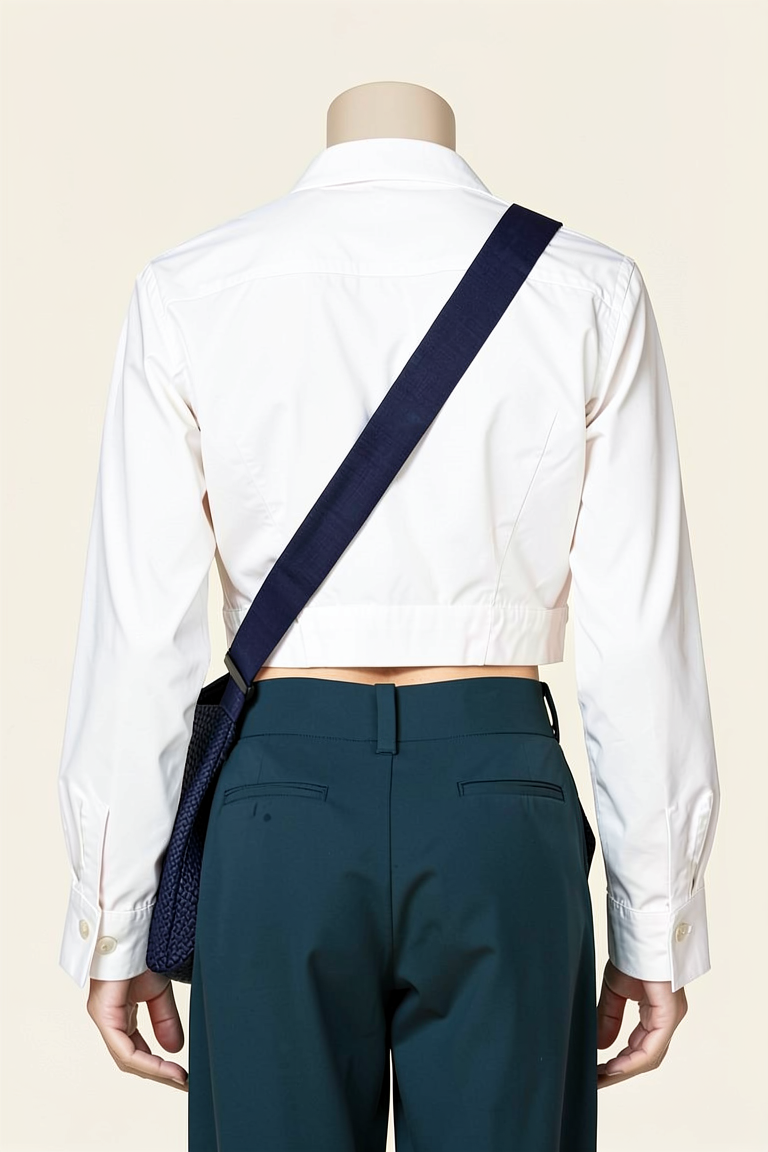
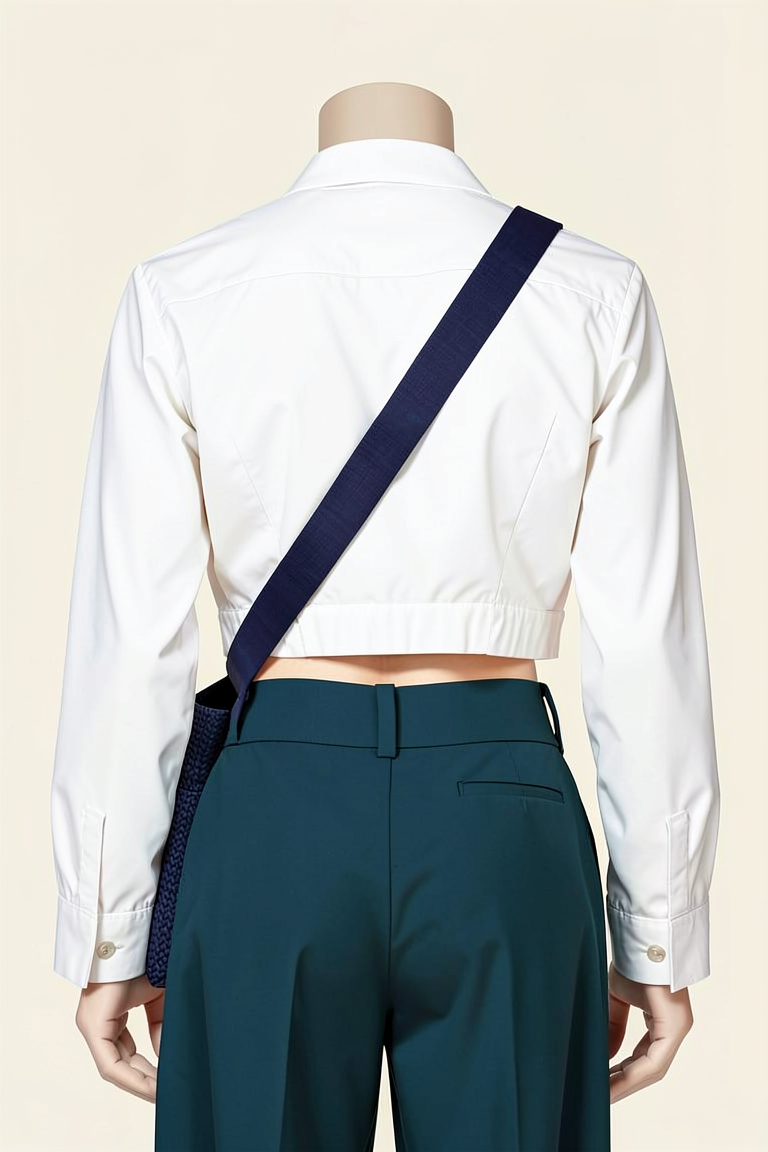
feat(p7-5-2): strengthen prop reference contracts

diff --git a/docs/assets/part-07/chapter-05/p7_5_2_generate_no_style_prop_masters.py b/docs/assets/part-07/chapter-05/p7_5_2_generate_no_style_prop_masters.py
@@ -18,6 +18,8 @@ MODEL_ID = "black-forest-labs/FLUX.2-klein-4B"
 PROP_SEED = 62294
 DEFAULT_REPORT = ROOT / "p7-5-2-prop-generation-candidate-review.json"
 CROP_TOP_WAIST_REFERENCE = ROOT / "p7-5-2-outfit-crop-top-waist-reference.png"
+CROSSBODY_BAG_REFERENCE = ROOT / "p7-5-2-prop-reference-crossbody-bag.png"
+TROUSERS_REFERENCE = ROOT / "p7-5-2-prop-reference-trousers.png"
 
 JACKET_COMMON_CONTRACT = (
     "One isolated very short white cropped utility jacket in a clean {view} product view "
@@ -66,20 +68,22 @@ REAR_JACKET_MIDRIFF_CONTRACT = (
 COMPLETE_OUTFIT_FRONT_HIP_CONTRACT = (
     "Front apparel-and-bag wearing reference from shoulders through hips on a neutral headless torso, plain "
     "off-white background. Show a very short white cropped utility jacket open over a charcoal-gray micro-crop "
-    "crew-neck top, deep teal-blue high-waisted wide-leg trousers, and a compact deep-navy woven-canvas crossbody "
-    "bag. The top ends at the upper abdomen, sixteen centimeters above the navel-height trouser waistband, leaving "
+    "crew-neck top, deep teal-blue wide-leg trousers with a clearly high waist: the full waistband sits at the navel, "
+    "well above the hips, and stays visible, plus a compact deep-navy woven-canvas crossbody bag. The top ends at "
+    "the upper abdomen, sixteen centimeters above the navel-height trouser waistband, leaving "
     "a clear bare-skin midriff band. Hang the bag side-on beside the wearer's outer left trouser seam (viewer right), "
     "with its top aligned to the waistband. Show one continuous taut strap from the outer wearer's-right shoulder "
-    "(viewer left), diagonally across the chest, into the bag's upper inner attachment. Keep distinct garment layers "
-    "and correct overlap. Clean "
+    "(viewer left), diagonally across the chest on top of the jacket exterior, into the bag's upper inner attachment; "
+    "never route the strap beneath, behind, or through the jacket. Keep distinct garment layers and correct overlap. Clean "
     "product illustration. No head, hands, legs, text, logo, hanger, or other object."
 )
 
 COMPLETE_OUTFIT_REAR_HIP_CONTRACT = (
     "Rear apparel-and-strap wearing reference from shoulders through hips on a neutral headless torso, plain off-white "
     "background. Show a very short white cropped utility jacket with long cuffed sleeves reaching the wrists, deep "
-    "teal-blue high-waisted wide-leg trousers, and one deep-navy canvas crossbody strap. Keep a plain white jacket "
-    "back panel and a bare-skin midriff band below its short hem, with no inner shirt visible. Show one continuous taut "
+    "teal-blue wide-leg trousers with a clearly high waist: the full waistband sits at the navel, well above the hips, "
+    "and stays visible, plus one deep-navy canvas crossbody strap. Keep a plain white jacket back panel and a bare-skin "
+    "midriff band below its short hem, with no inner shirt visible. Show one continuous taut "
     "deep-navy canvas strap from the outer wearer's-right shoulder (viewer right), diagonally across the jacket back, "
     "exiting beyond the left waistband. At the outer left hip, show only a small deep-navy woven-fabric bag corner, "
     "mostly hidden behind the torso. "
@@ -139,7 +143,11 @@ PROPS = {
         "seed": PROP_SEED,
         "output": "p7-5-2-no-style-prop-complete-outfit-front-hip-candidate.png",
         "size": (768, 1152),
-        "references": (CROP_TOP_WAIST_REFERENCE,),
+        "references": (
+            CROP_TOP_WAIST_REFERENCE,
+            CROSSBODY_BAG_REFERENCE,
+            TROUSERS_REFERENCE,
+        ),
         "prompt": (
             f"{COMPLETE_OUTFIT_FRONT_HIP_CONTRACT} Use the supplied crop-top-to-waistband reference as the authoritative "
             "gray crop-top length contract. Keep its high hem and exposed midriff band; do not lengthen it to the trouser "

diff --git a/docs/assets/part-07/chapter-05/p7_5_2_generate_fullbody_turnaround_references.py b/docs/assets/part-07/chapter-05/p7_5_2_generate_fullbody_turnaround_references.py
@@ -18,13 +18,17 @@ ROOT = Path(__file__).resolve().parent
 MODEL_ID = "black-forest-labs/FLUX.2-klein-4B"
 BASE_SEED = 62294
 TIMESTAMP_FORMAT = "%Y%m%dT%H%M%S%f%z"
-FACE_TURNAROUND = ROOT / "p7-5-2-face-turnaround-reference.png"
+FACE_IDENTITY_BY_VIEW = {
+    "front": ROOT / "p7-5-2-face-turnaround-codeformer-front-2x.png",
+    "front_quarter": ROOT / "p7-5-2-face-turnaround-codeformer-front-quarter-2x.png",
+    "profile": ROOT / "p7-5-2-face-turnaround-codeformer-profile-2x.png",
+    "rear": ROOT / "p7-5-2-face-turnaround-codeformer-rear-2x.png",
+}
 OUTFIT_REFERENCES = [
     ROOT / "p7-5-2-outfit-crop-top-waist-reference.png",
     ROOT / "p7-5-2-prop-reference-trousers.png",
     ROOT / "p7-5-2-prop-reference-shoes.png",
 ]
-REFERENCES = [FACE_TURNAROUND, *OUTFIT_REFERENCES]
 IMAGE_WIDTH = 768
 IMAGE_HEIGHT = 1152
 VIEW_RULES = {
@@ -40,8 +44,11 @@ VIEW_RULES = {
     ),
     "rear": "rear view, facing away from the camera",
 }
+FACE_IDENTITY_HAIR_DESCRIPTION = "deep petrol-teal, extremely voluminous jaw-length bob with medium-density hair"
+FACE_IDENTITY_EYE_DESCRIPTION = "chestnut-brown and orange-amber irises"
 APPEARANCE_RULE = (
-    "Use the face turnaround sheet for the same face, gaze, nose, and hair in every visible view. "
+    "Use the supplied direction-matched 2x face identity reference for the same face, gaze, nose, hair, and eyes: "
+    f"{FACE_IDENTITY_HAIR_DESCRIPTION}; {FACE_IDENTITY_EYE_DESCRIPTION}. "
     "Keep the charcoal-gray micro-crop crew-neck top, bare-midriff gap, deep teal-blue wide-leg trousers, "
     "and white lace-up low-top sneakers from the outfit references."
 )
@@ -82,7 +89,11 @@ def main() -> None:
         raise ValueError("seed-count must be at least 1")
     if args.seed_step == 0:
         raise ValueError("seed-step must not be zero")
-    if missing := [path.name for path in REFERENCES if not path.is_file()]:
+    reference_paths = [
+        *(FACE_IDENTITY_BY_VIEW[view] for view in args.views),
+        *OUTFIT_REFERENCES,
+    ]
+    if missing := [path.name for path in reference_paths if not path.is_file()]:
         raise FileNotFoundError(", ".join(missing))
     if not torch.cuda.is_available():
         raise RuntimeError("CUDA is required")
@@ -97,11 +108,16 @@ def main() -> None:
 
     run_timestamp = datetime.now().astimezone().strftime(TIMESTAMP_FORMAT)
     first_seed = BASE_SEED + args.seed_offset
-    reference_images = [Image.open(path).convert("RGB") for path in REFERENCES]
+    outfit_images = [Image.open(path).convert("RGB") for path in OUTFIT_REFERENCES]
     for batch_index in range(args.seed_count):
         seed = first_seed + batch_index * args.seed_step
         for view in args.views:
             prompt = build_prompt(view)
+            reference_paths_for_view = [FACE_IDENTITY_BY_VIEW[view], *OUTFIT_REFERENCES]
+            reference_images = [
+                Image.open(FACE_IDENTITY_BY_VIEW[view]).convert("RGB"),
+                *outfit_images,
+            ]
             output = ROOT / f"{args.output_prefix}-{view}-{run_timestamp}-seed-{seed}-candidate.png"
             report = ROOT / f"{args.output_prefix}-{view}-{run_timestamp}-seed-{seed}-review.json"
             started = time.monotonic()
@@ -132,7 +148,7 @@ def main() -> None:
                         "output_prefix": args.output_prefix,
                         "prompt": prompt,
                         "prompt_word_count": prompt_word_count(prompt),
-                        "references": [path.name for path in REFERENCES],
+                        "references": [path.name for path in reference_paths_for_view],
                         "model": MODEL_ID,
                         "image_size": [IMAGE_WIDTH, IMAGE_HEIGHT],
                         "elapsed_seconds": elapsed,

diff --git a/management/release-notes/sections/part-07/P7-5.2.md b/management/release-notes/sections/part-07/P7-5.2.md
@@ -5,6 +5,7 @@
 
 ### v2026.08.08
 
+- 소품·방향 전신 입력 보강: 전면 통합 착장 기준을 갱신하고, 생성기에는 승인한 크롭탑-허리선·가방·바지 PNG를 함께 입력해 높은 허리선과 자켓 바깥의 가방 스트랩을 확인하도록 했다. 방향 전신 생성기는 정면·전면 쿼터·측면·후면 각각에 대응하는 CodeFormer `2x` 얼굴 기준을 사용하도록 바꿨다. 새 전신 후보는 별도 사람 검수 대상이다.
 - run `9794ed66`, seed `62377`의 정면 전신 얼굴·소품 리파인 PNG를 사람 승인하고 `p7-5-2-fullbody-front-refined-reference.png` 안정 자산으로 이름을 정리했다. 이 자산은 리파인 결과의 승인 사례이며, 기존 정면 전신 composition 기준을 대체하지 않는다.
 - seed `62377`의 전면 쿼터 전신 얼굴·소품 리파인 PNG를 사람 승인하고 `p7-5-2-fullbody-front-quarter-refined-reference.png` 안정 자산으로 이름을 정리했다. 이 자산은 기존 전면 쿼터 전신 composition 기준을 대체하지 않는다.
 - seed `62377`의 측면·후면 전신 얼굴·소품 리파인 PNG를 사람 승인하고 각각 `p7-5-2-fullbody-profile-refined-reference.png`, `p7-5-2-fullbody-rear-refined-reference.png` 안정 자산으로 이름을 정리했다. 네 방향 리파인 자산은 기존 방향 전신 composition 기준을 대체하지 않는다.
